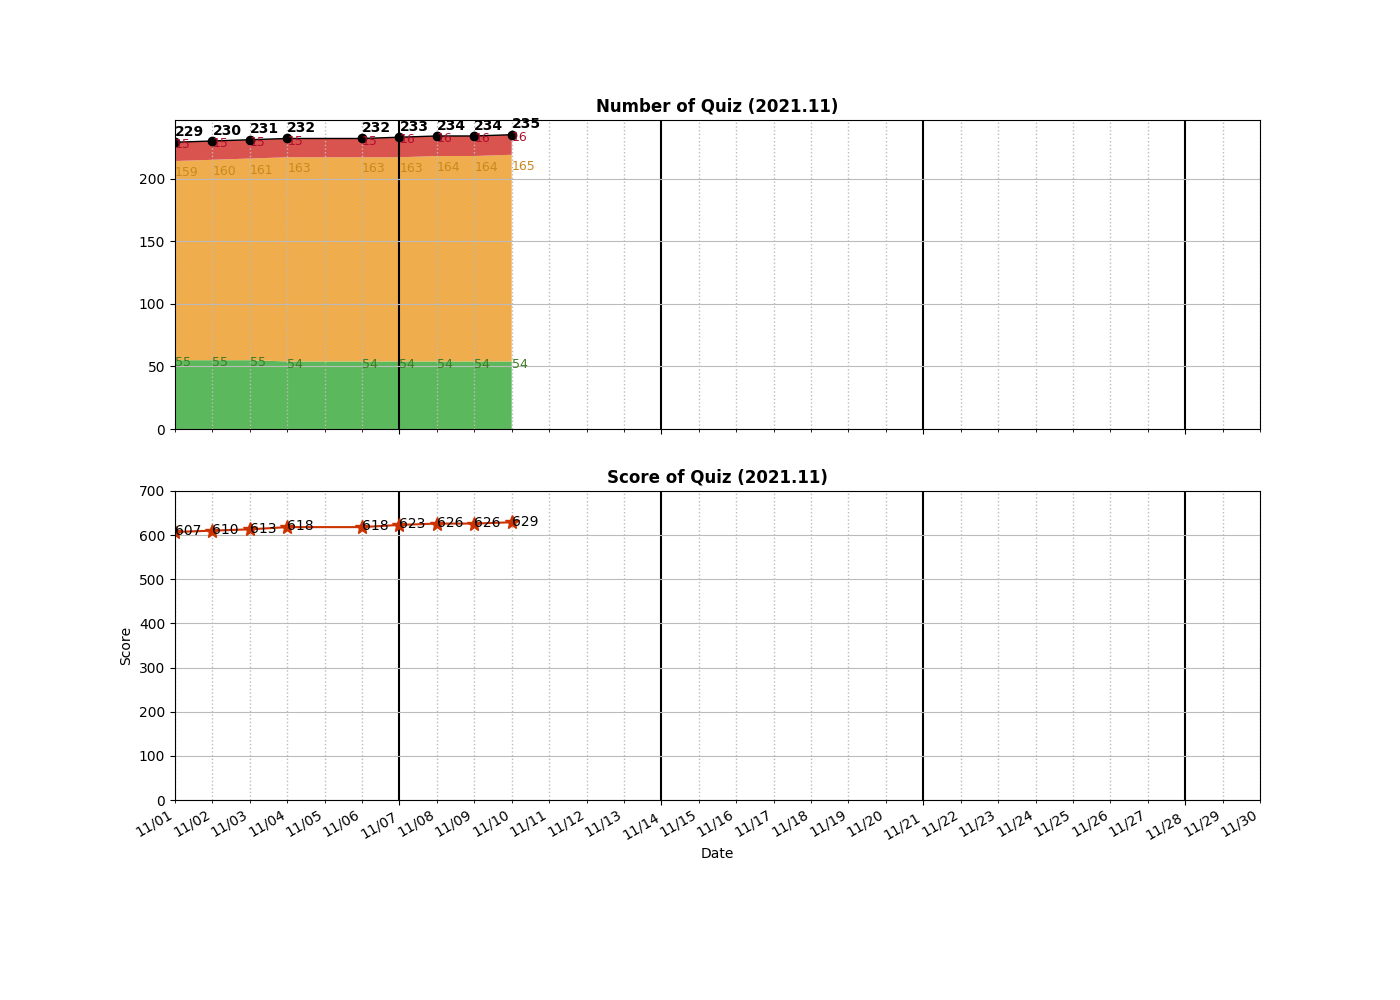
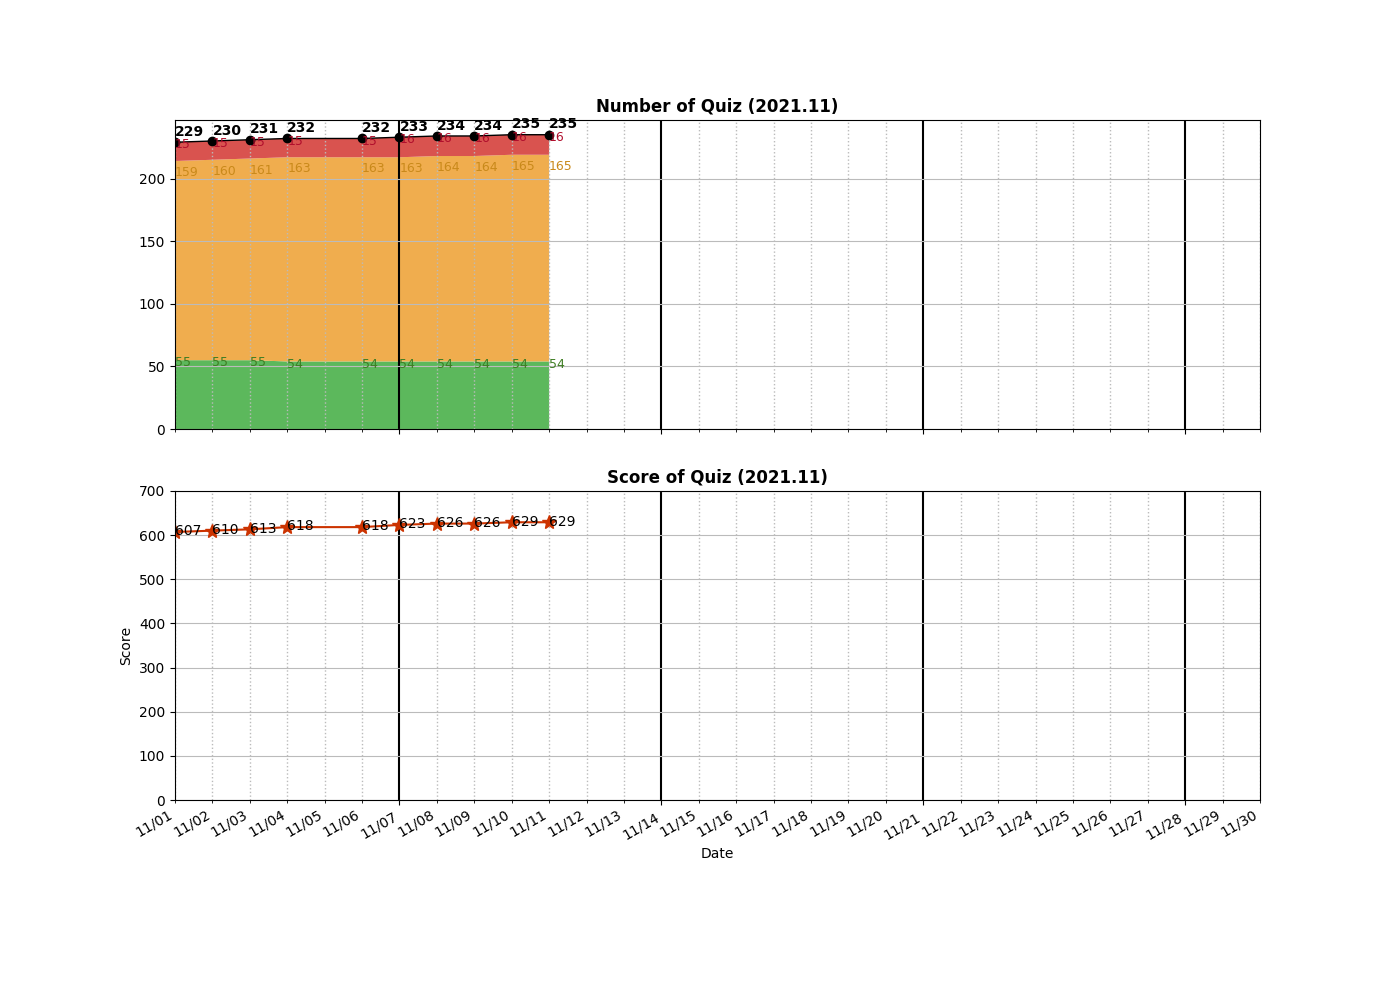
Updated __0162__Find Peak Element.py

Changed region(s): [[0.3379, 0.124, 0.3993, 0.434], [0.3686, 0.496, 0.3993, 0.527]]

diff --git a/algo/BinarySearch/__0162__Find Peak Element.py b/algo/BinarySearch/__0162__Find Peak Element.py
@@ -1,7 +1,33 @@
 class Solution:
     
-    # Binary Search [O(logn), 42%]
+    # 2021/11/10
+    # Binary Search [O(logn): 56%]
     def findPeakElement(self, nums: List[int]) -> int:
+        print("close-open")
+        if not nums:
+            return -1
+        
+        start, end = 0, len(nums) 
+        while start < end:
+            mid = start + (end - start) //2
+            #print(mid)
+            if mid == len(nums) - 1:  #except (no next element)
+                if nums[mid-1] < nums[mid]:
+                    return mid
+                else:
+                    end = mid
+            else:
+                if nums[mid] < nums[mid+1]:
+                    start = mid + 1
+                else:
+                    end = mid
+        return start
+    
+    # ======================================
+    
+    # 2021/05/10
+    # Binary Search [O(logn): 56%]
+    def findPeakElement1(self, nums: List[int]) -> int:
         if not nums:
             return -1
         
@@ -12,7 +38,7 @@ class Solution:
                 start = mid
             else:
                 end = mid
+        print(start, end)
         if nums[start] > nums[end]:
             return start
         return end 
-            

diff --git a/README.md b/README.md
@@ -736,9 +736,9 @@ Num of Python Practice:  228
  1937 Maximum Number of Points with Cost
 =====================================
 Solved / Total (Easy)  :   54 /  524
-Solved / Total (Medium):  165 / 1102
+Solved / Total (Medium):  165 / 1103
 Solved / Total (Hard)  :   16 /  440
-Solved / Total (All)   :  235 / 2066
+Solved / Total (All)   :  235 / 2067
 Total Score            :  629
 =====================================
 
